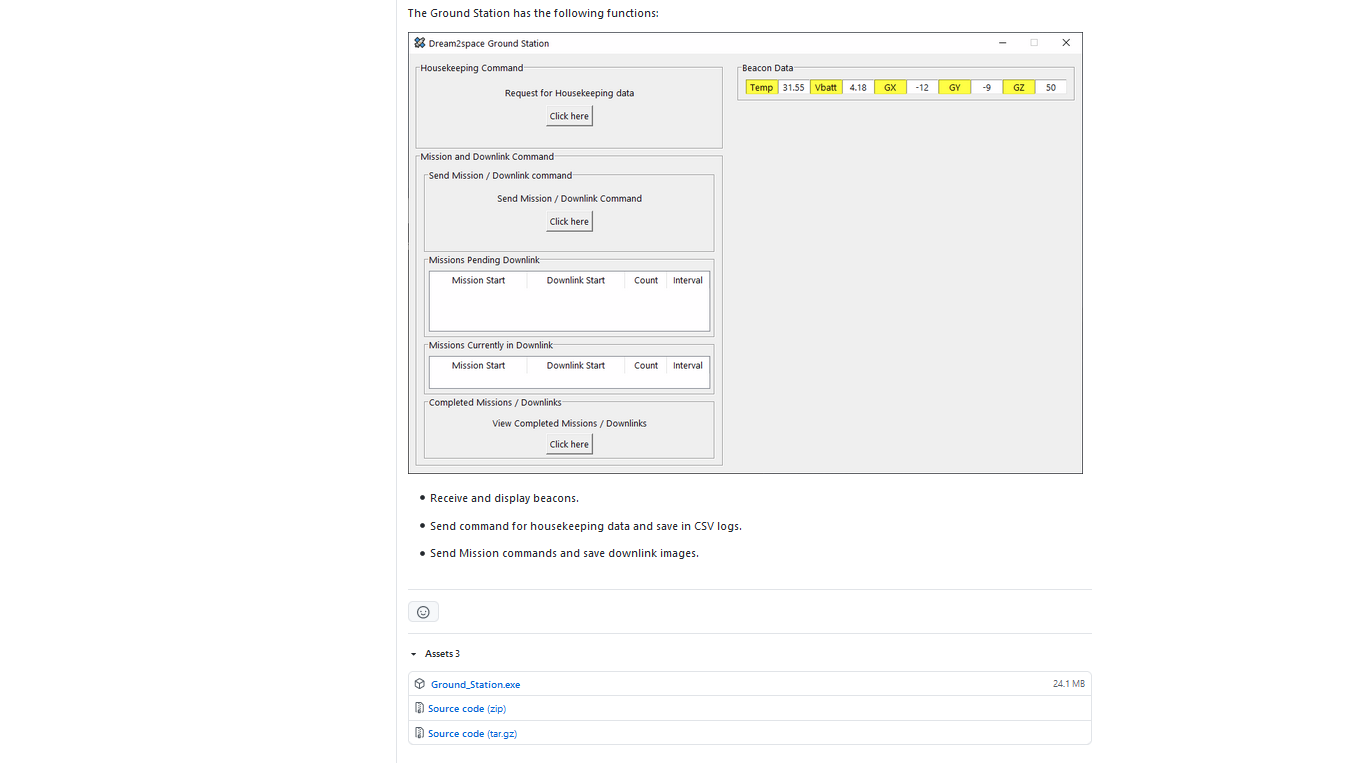
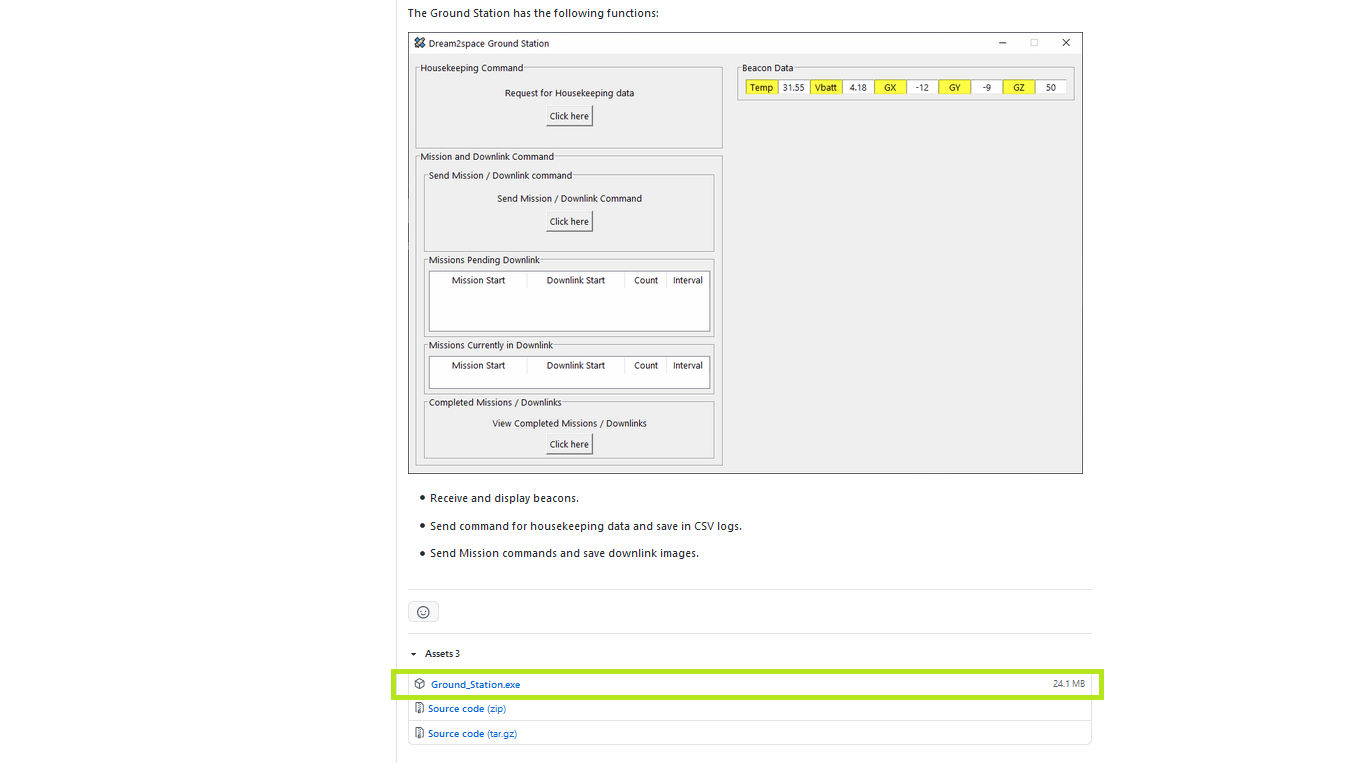
fix image with labels

Changed region(s): [[0.2788, 0.8742, 0.8363, 0.9345]]

diff --git a/v0.2-doc/Ground_Stn_Doc.md b/v0.2-doc/Ground_Stn_Doc.md
@@ -80,6 +80,8 @@ You can find the latest version of the Ground Station app and the Version tag in
 
 Scroll down to view the download link of the `Ground_Station.exe` app.
 
+The download link of the `Ground_Station.exe` app is boxed in **<span style="color: lime">green</span>** box in the screenshot below.
+
 ![Download app](images/ground_stn_exe_releases-dow.png)
 
 Click on the `Ground_Station.exe` under the `Assets` section to download it.
